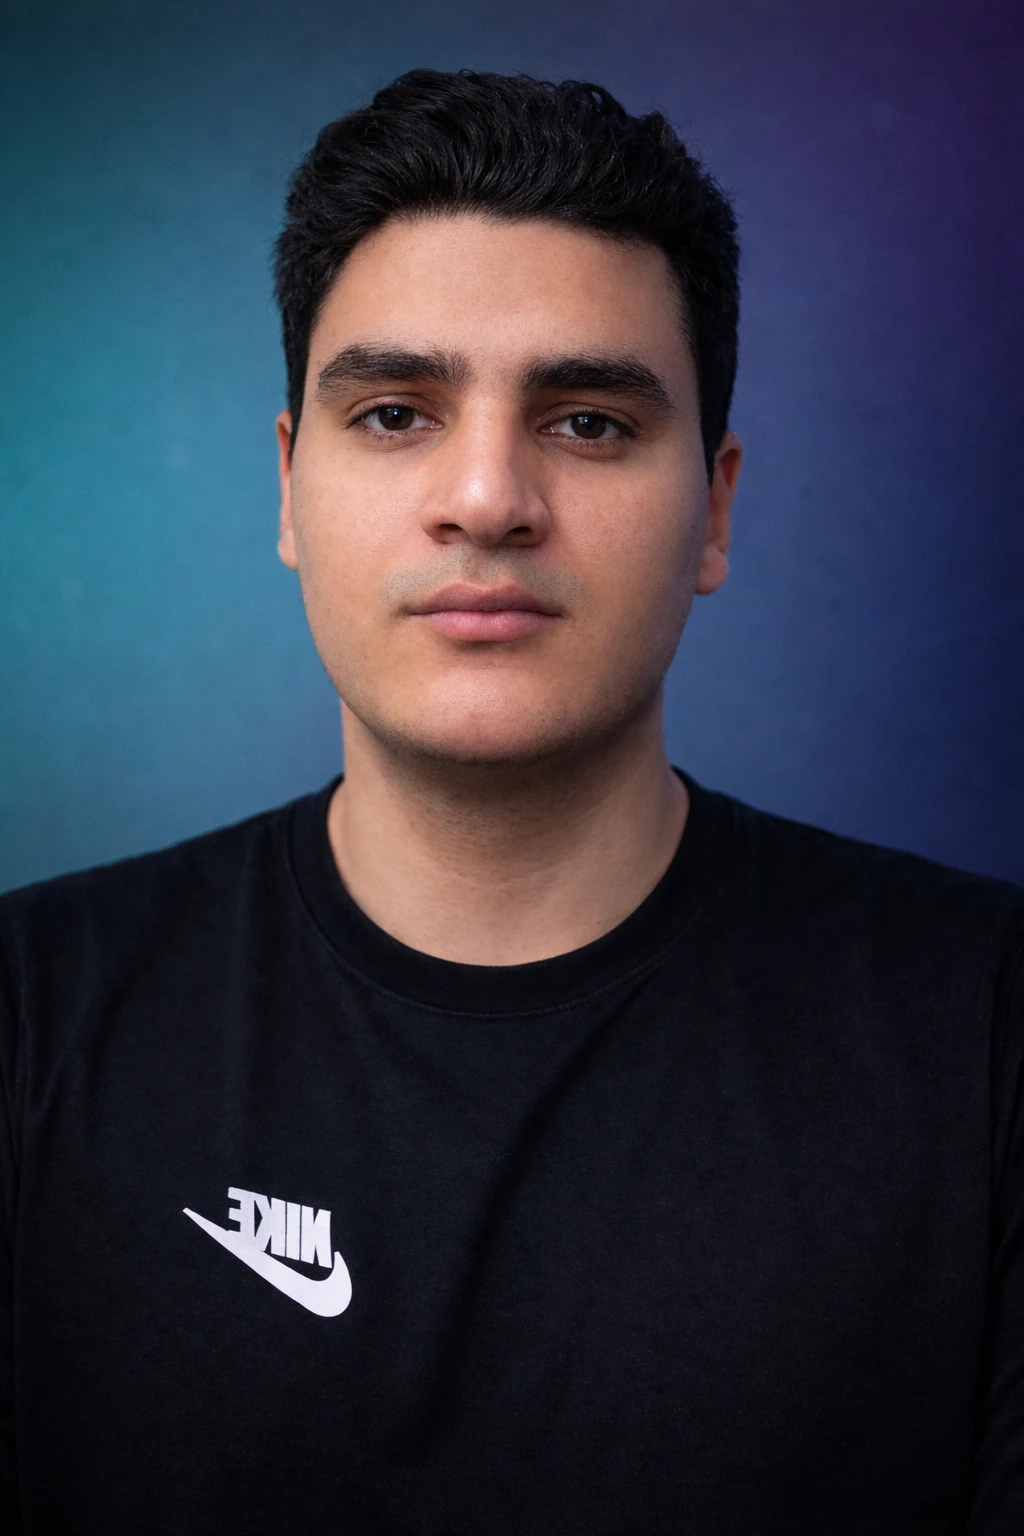
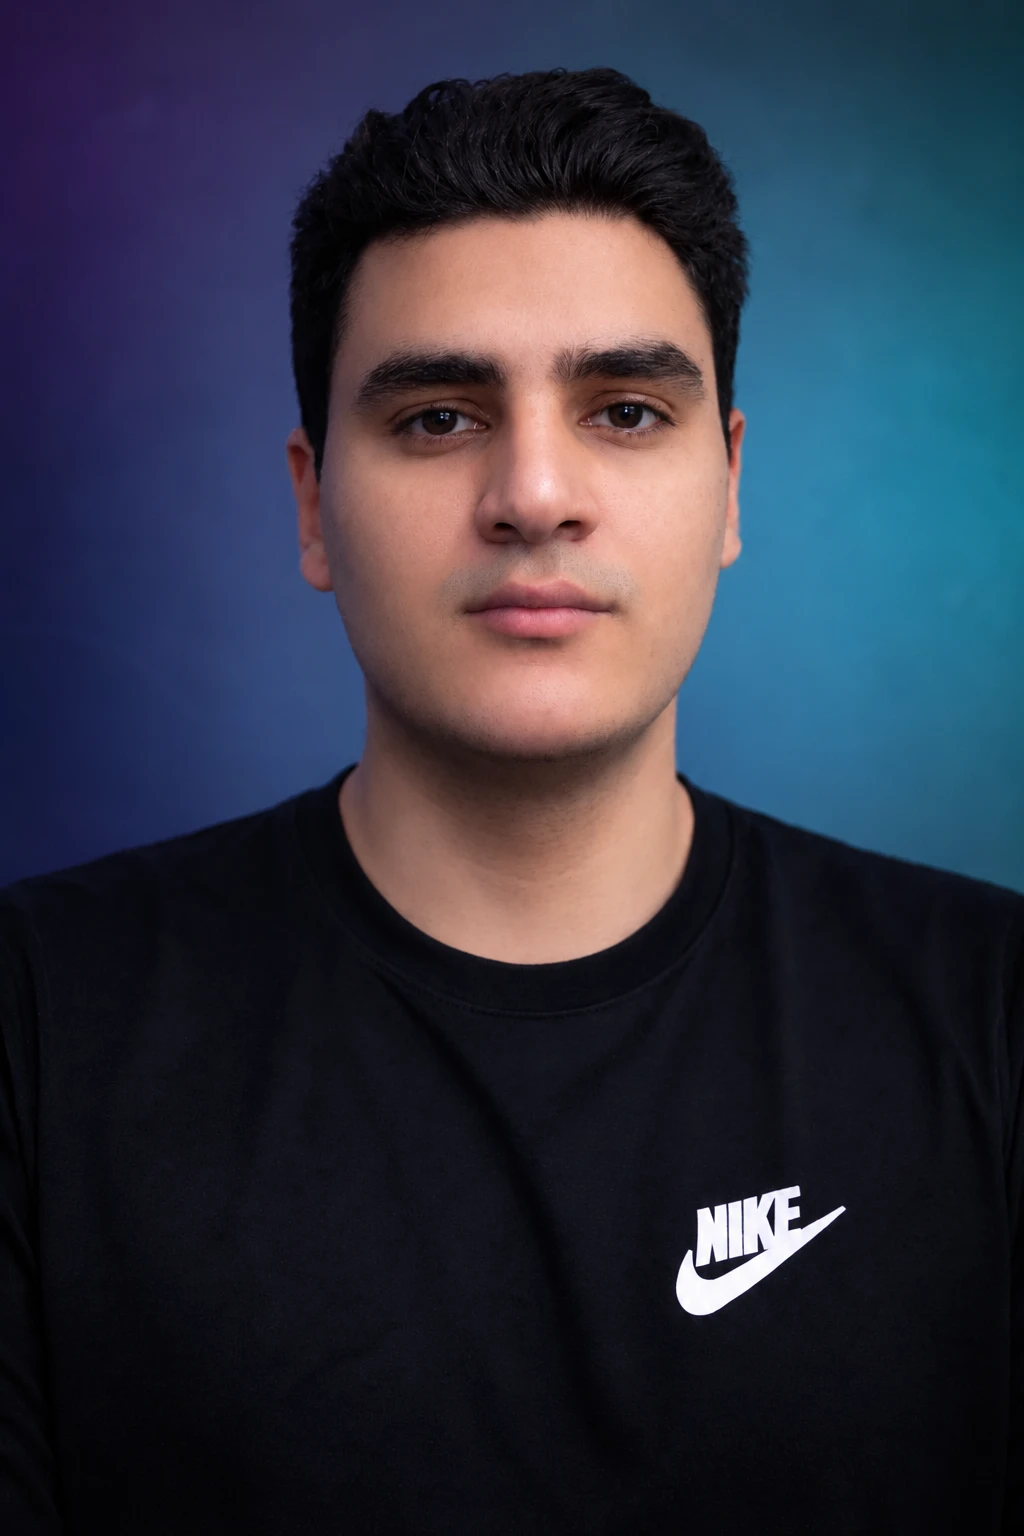
Use the corrected portrait and reorder videos
- Replace the portrait with a correctly oriented photo and drop the
  CSS flip that compensated for the mirrored one
- Move the character explainer up in the work list

diff --git a/videos.js b/videos.js
@@ -13,15 +13,21 @@ window.PORTFOLIO = {
       "description": ""
     },
     {
-      "vimeo": "https://vimeo.com/1108621964/c630a018d6",
-      "title": "EvalCard",
+      "vimeo": "https://vimeo.com/1121050640/70435d1f02",
+      "title": "Med",
+      "type": "Motion video",
+      "description": ""
+    },
+    {
+      "vimeo": "https://vimeo.com/1121039009",
+      "title": "Character explainer",
       "type": "Explainer video",
       "description": ""
     },
     {
-      "vimeo": "https://vimeo.com/1121050640/70435d1f02",
-      "title": "Med",
-      "type": "Motion video",
+      "vimeo": "https://vimeo.com/1108621964/c630a018d6",
+      "title": "EvalCard",
+      "type": "Explainer video",
       "description": ""
     },
     {
@@ -34,12 +40,6 @@ window.PORTFOLIO = {
       "vimeo": "https://vimeo.com/1108617476",
       "title": "Ball and square float",
       "type": "Motion graphics",
-      "description": ""
-    },
-    {
-      "vimeo": "https://vimeo.com/1121039009",
-      "title": "Character explainer",
-      "type": "Explainer video",
       "description": ""
     },
     {

diff --git a/index.html b/index.html
@@ -172,10 +172,9 @@ ul.jobs strong { font-weight: 600; line-height: 1.3; }
 ul.jobs span { color: var(--muted); font-size: 0.9rem; }
 
 .about { display: grid; grid-template-columns: minmax(200px, 300px) 1fr; gap: 40px; align-items: center; }
-/* the source photo is a mirrored selfie; flip it so the shirt logo reads correctly */
 .portrait {
   width: 100%; height: auto; aspect-ratio: 4 / 5; object-fit: cover; object-position: center 20%;
-  border: 2px solid var(--ink); border-radius: 14px; transform: scaleX(-1); background: var(--surface);
+  border: 2px solid var(--ink); border-radius: 14px; background: var(--surface);
 }
 
 .proof { display: flex; flex-wrap: wrap; gap: 14px 44px; margin-top: 8px; }
